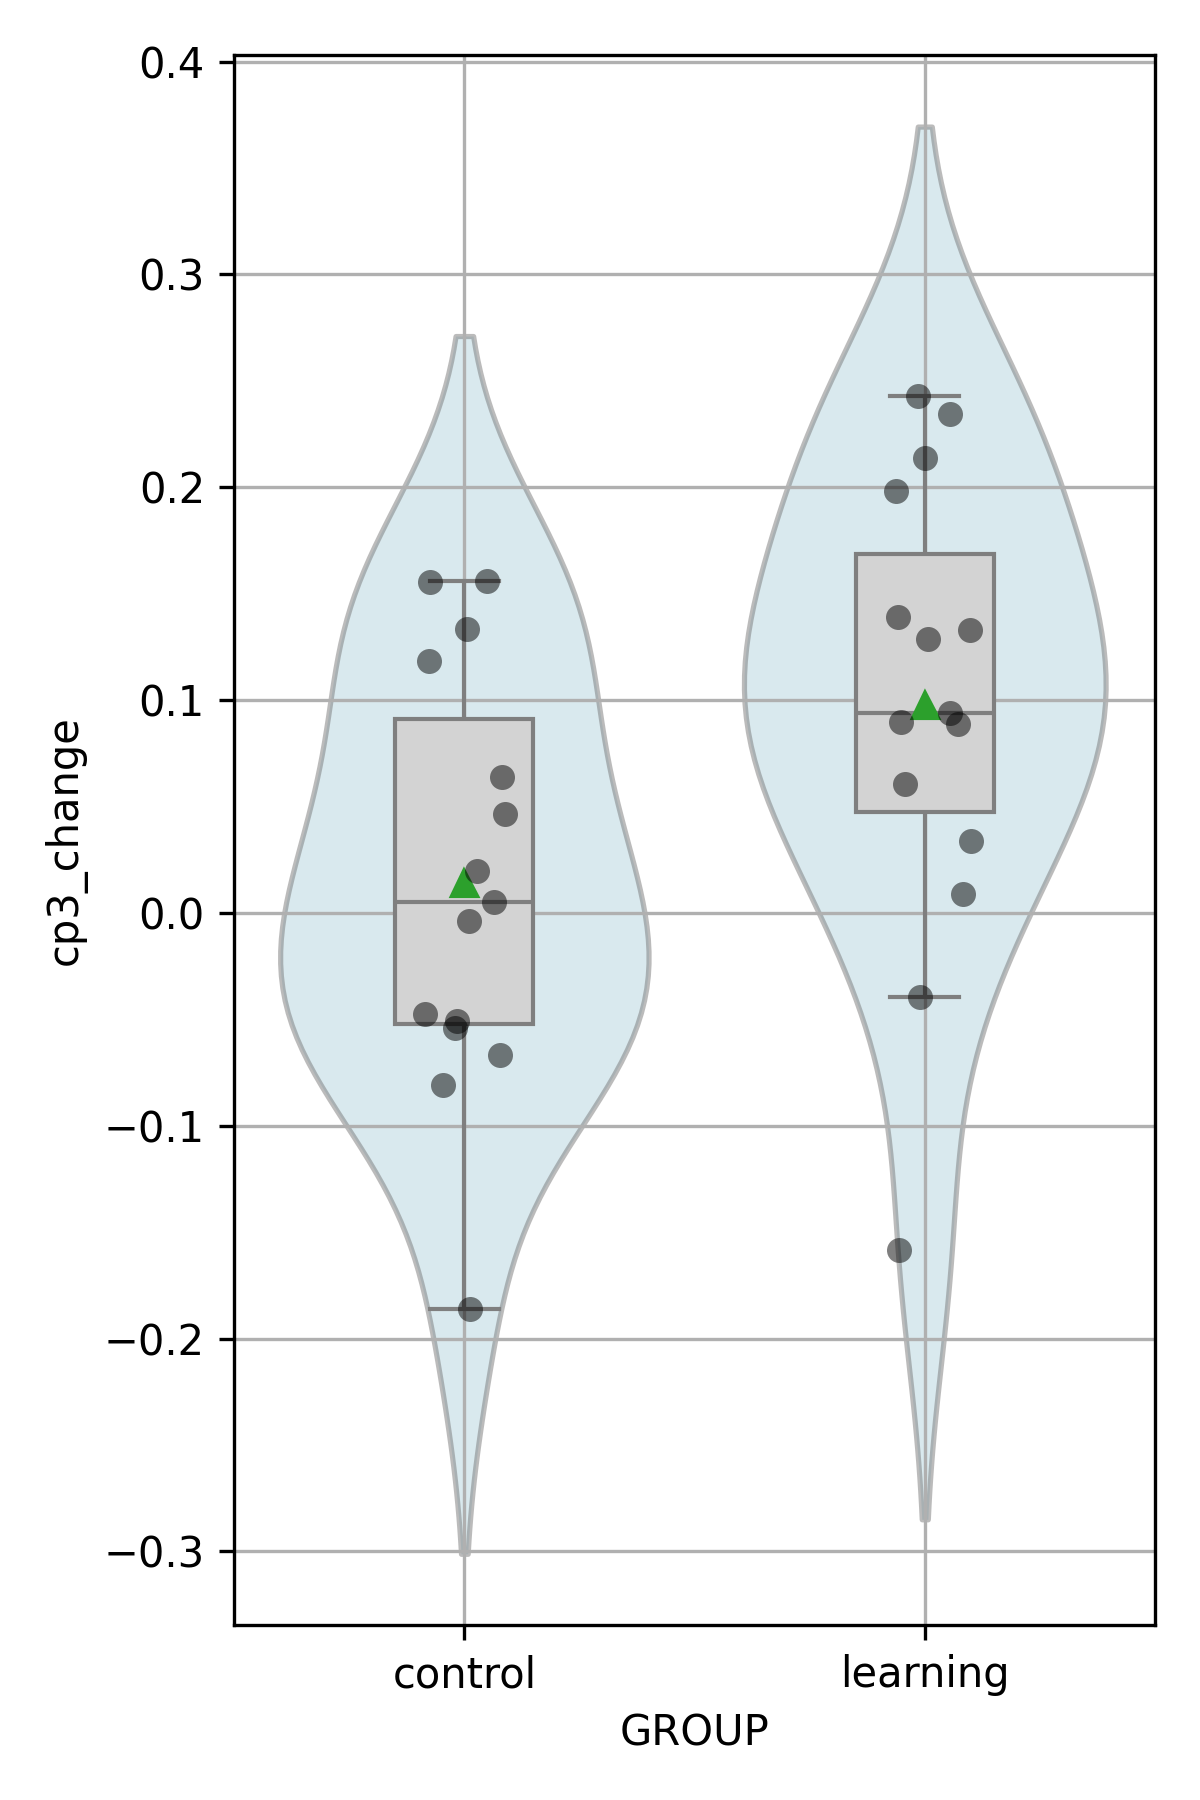
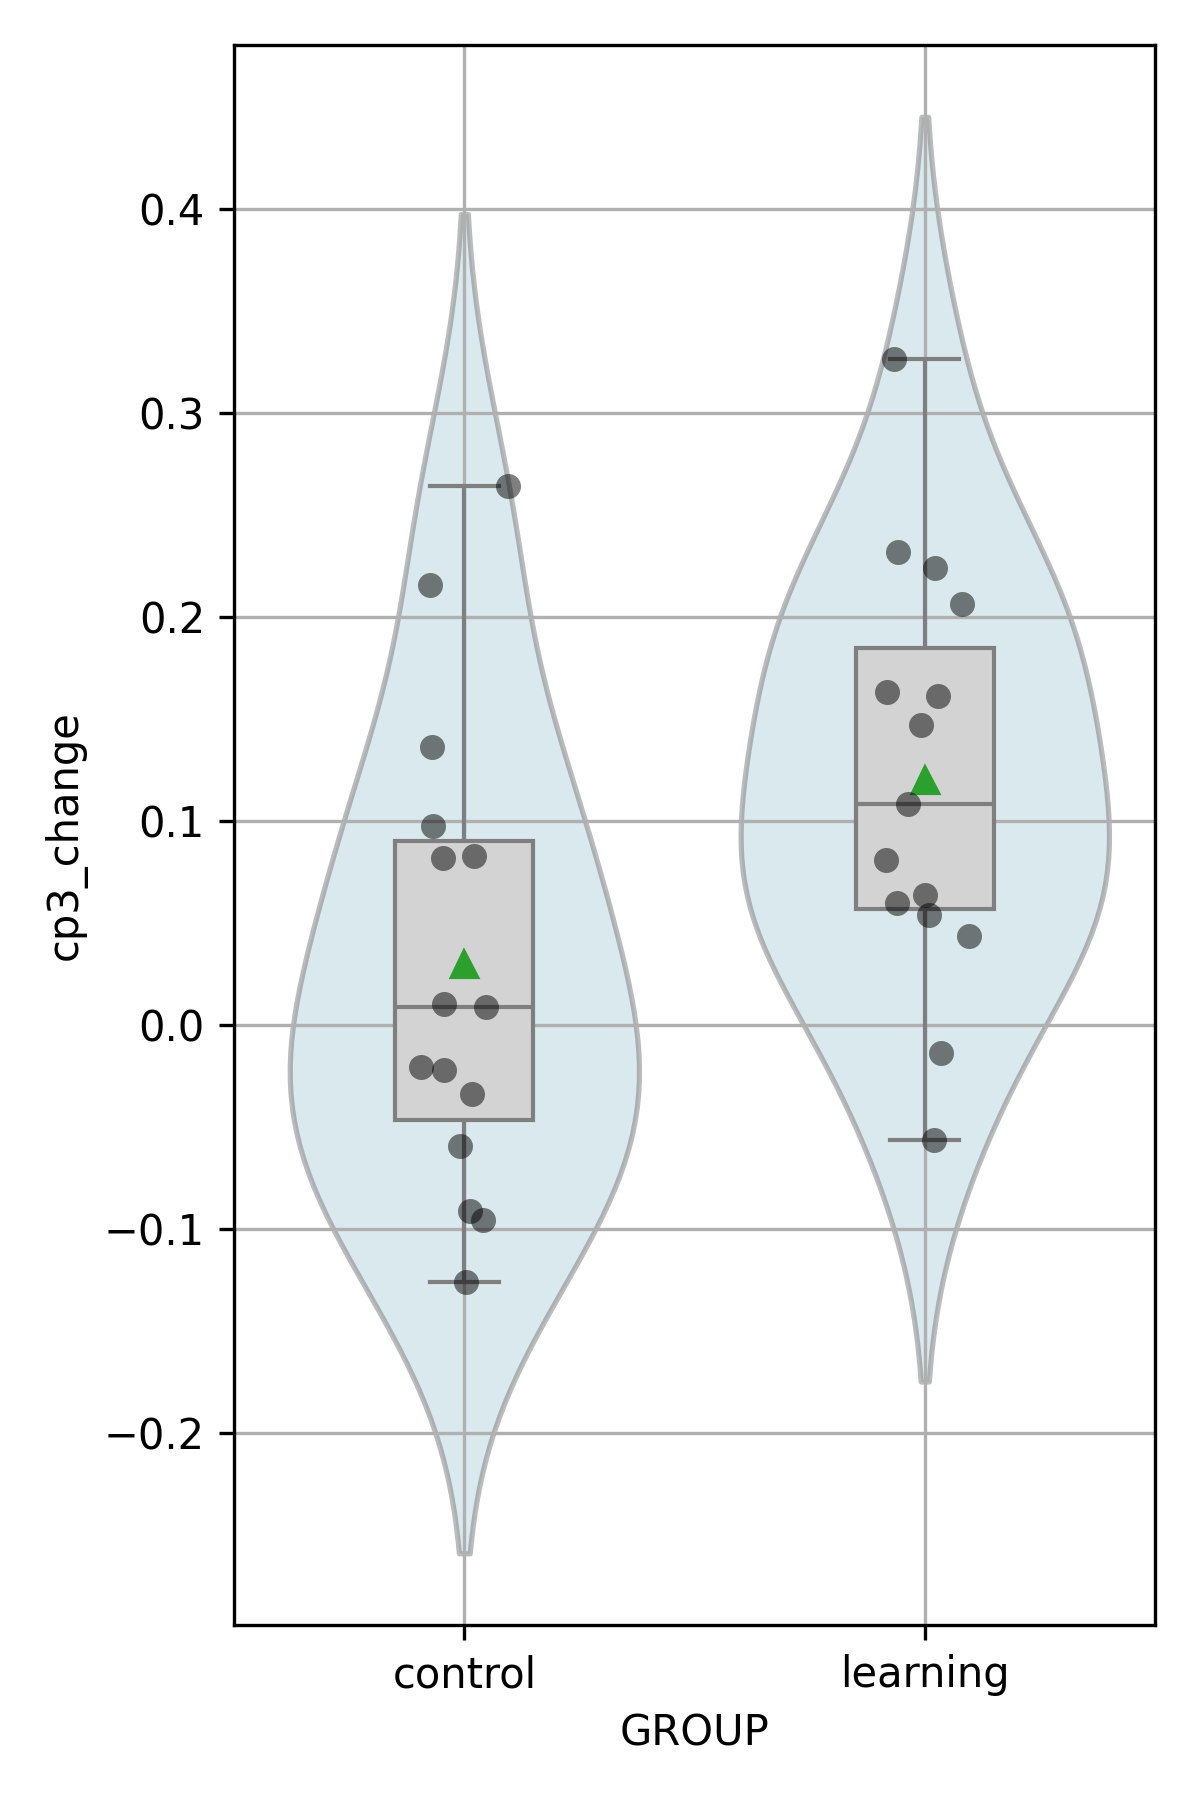
beh

diff --git a/create_dataset.py b/create_dataset.py
@@ -38,8 +38,11 @@ def create_SEP(stim, sr=5000, sep_peak=0.020, sep_period=0.010, sep_amplitude = 
     t = np.linspace(0,sep_period,math.ceil(sep_period*sr))
     sep_single = -np.sin(2*math.pi*t*(1/sep_period)) * np.hanning(math.ceil(sep_period*sr)) * sep_amplitude
     i_offset = i_stim[i] + i_peak + int(i_period/2)
+    windows = []
     while (((i_offset + i_period) < n) and (i < len(i_stim)-1)):
-        SEP[i_offset : i_offset + i_period] = sep_single
+        i1,i2 = i_offset, i_offset + i_period
+        windows.append((i1,i2))
+        SEP[i1:i2] = sep_single
         i = i + 1
         i_offset = i_stim[i] + i_peak + int(i_period/2)
     SEP += np.random.randn(len(SEP)) * noise_sd
@@ -54,7 +57,19 @@ n_participants = 15
 sample_rate    = 5000  # Hz
 raw_dir        = "raw_data"
 
-np.random.seed(9040)
+np.random.seed(7)
+
+def clip_SEP(stim, sep, sample_rate=5000, pre_clip=0.010, post_clip=0.090):
+	stim_up = np.where(np.diff(stim)==1)[0]
+	n_stims = len(stim_up)
+	pre_clip_n  = int(pre_clip * sample_rate)  # samples
+	post_clip_n = int(post_clip * sample_rate) # samples
+	sep_clipped = np.zeros((n_stims, pre_clip_n + post_clip_n))
+	for i in range(n_stims):
+		i1 = stim_up[i] - pre_clip_n
+		i2 = stim_up[i] + post_clip_n
+		sep_clipped[i,:] = sep[i1:i2]
+	return sep_clipped, n_stims
 
 def create_group(participant_list=range(15), folder_name="control_group", sep_change=0, snap_change=0):
     if not os.path.exists(folder_name):
@@ -82,12 +97,34 @@ def create_group(participant_list=range(15), folder_name="control_group", sep_ch
         write_binary_eeg(snap_post, folder_name+"/"+"P"+str(participant_num)+"_snap_post"+".bin")
         write_binary_eeg(stim     , folder_name+"/"+"P"+str(participant_num)+"_stim_pre"+".bin")
         write_binary_eeg(stim     , folder_name+"/"+"P"+str(participant_num)+"_stim_post"+".bin")
-
+        # behavioural measures: 10 x 3 pre and 10 x 3 post
+        cp3_pre_c,_  = clip_SEP(stim, cp3_pre)
+        cp3_pre_c_m  = np.mean(cp3_pre_c,0)
+        cp3_post_c,_ = clip_SEP(stim, cp3_post)
+        cp3_post_c_m = np.mean(cp3_post_c,0)
+        cp3_change = (np.max(cp3_post_c_m) - np.min(cp3_post_c_m)) - (np.max(cp3_pre_c_m) - np.min(cp3_pre_c_m))
+        participant_bias = np.random.randn()*2 + 60
+        with open(folder_name+"/"+"P"+str(participant_num)+"_sequence_times_pre"+".csv", "w") as fid:
+            for i in range(10):
+                seq1 = participant_bias + 5 + np.random.randn()*8
+                seq2 = participant_bias - 5 + np.random.randn()*8
+                seq3 = participant_bias + 0 + np.random.randn()*8
+                fid.write(f"{seq1:.3f},{seq2:.3f},{seq3:.3f}\n")
+        if (folder_name=="raw_data/learning_group"):
+            slope = cp3_change
+        else:
+            slope = 0
+        with open(folder_name+"/"+"P"+str(participant_num)+"_sequence_times_post"+".csv", "w") as fid:
+            for i in range(10):
+                seq1 = participant_bias - (slope)*11  + 5 + np.random.randn()*8
+                seq2 = participant_bias - (slope)*15  - 5 + np.random.randn()*8
+                seq3 = participant_bias - (slope)*12  + 0 + np.random.randn()*8
+                fid.write(f"{seq1:.3f},{seq2:.3f},{seq3:.3f}\n")
 
 # create control group
 create_group(range(0 ,15), "raw_data/control_group", sep_change=0, snap_change=0)
 
 # create learning group
-create_group(range(15,30), "raw_data/learning_group", sep_change=0.07, snap_change=0)
+create_group(range(15,30), "raw_data/learning_group", sep_change=0.12, snap_change=0)
 
 

diff --git a/test.py b/test.py
@@ -19,13 +19,13 @@ def clip_SEP(stim, sep, sample_rate=5000, pre_clip=0.010, post_clip=0.090):
 	post_clip_n = int(post_clip * sample_rate) # samples
 	sep_clipped = np.zeros((n_stims, pre_clip_n + post_clip_n))
 	for i in range(n_stims):
-	    i1 = stim_up[i] - pre_clip_n
-	    i2 = stim_up[i] + post_clip_n
-	    sep_clipped[i,:] = sep[i1:i2]
+		i1 = stim_up[i] - pre_clip_n
+		i2 = stim_up[i] + post_clip_n
+		sep_clipped[i,:] = sep[i1:i2]
 	return sep_clipped, n_stims
 
 def load_group(data_dir, participant_range):
-	group_df = pd.DataFrame(columns=["participant", "n_stims", "cp3_change", "snap_change"])
+	group_df = pd.DataFrame(columns=["participant", "n_stims", "cp3_change", "snap_change", "behav_change"])
 	print(f"loading {len(participant_range)} participants from {data_dir}")
 	for i_participant in tqdm(participant_range, unit="participant"):
 		fname_prefix = data_dir + "P" + str(i_participant) + "_"
@@ -44,7 +44,10 @@ def load_group(data_dir, participant_range):
 		snap_post_c_m = np.mean(snap_post_c,0)
 		cp3_change = (np.max(cp3_post_c_m) - np.min(cp3_post_c_m)) - (np.max(cp3_pre_c_m) - np.min(cp3_pre_c_m))
 		snap_change = (np.max(snap_post_c_m) - np.min(snap_post_c_m)) - (np.max(snap_pre_c_m) - np.min(snap_pre_c_m))
-		group_df.loc[i_participant] = [i_participant, n_stims, cp3_change, snap_change]
+		beh_pre  = np.genfromtxt(fname_prefix + "sequence_times_pre.csv", delimiter=",")
+		beh_post = np.genfromtxt(fname_prefix + "sequence_times_post.csv", delimiter=",")
+		beh_change = np.mean(np.mean(beh_post,0) - np.mean(beh_pre,0))
+		group_df.loc[i_participant] = [i_participant, n_stims, cp3_change, snap_change, beh_change]
 	return group_df
 
 def plot_plus_stats(df, colname):
@@ -109,3 +112,25 @@ plt.title(f'P{i_participant} (Learning Group): CP3 Electrode')
 plt.tight_layout()
 plt.savefig("fig_cp3_timeseries.png",dpi=300)
 
+
+# EXAMPLE BEHAVIOURAL MEASURES
+#
+fig = plt.figure(figsize=(6,3))
+ax1 = fig.add_subplot(1,2,1)
+x = all_df[all_df.group=="control"].cp3_change
+y = all_df[all_df.group=="control"].behav_change
+ax1.plot(x, y, 'r.')
+r,p = stats.pearsonr(x,y)
+ax1.set_title(f"r={r:.2f}, p={p:.3f}")
+ax1.set_xlim(np.min(all_df.cp3_change)-.05, np.max(all_df.cp3_change)+.05)
+ax1.set_ylim(np.min(all_df.behav_change-1), np.max(all_df.behav_change)+1)
+ax2 = fig.add_subplot(1,2,2)
+x = all_df[all_df.group=="learning"].cp3_change
+y = all_df[all_df.group=="learning"].behav_change
+ax2.plot(x, y, 'r.')
+r,p = stats.pearsonr(x,y)
+ax2.set_title(f"r={r:.2f}, p={p:.3f}")
+ax2.set_xlim(np.min(all_df.cp3_change)-.05, np.max(all_df.cp3_change)+.05)
+ax2.set_ylim(np.min(all_df.behav_change-1), np.max(all_df.behav_change)+1)
+fig.tight_layout()
+fig.savefig("fig_beh_corr.png",dpi=300)
